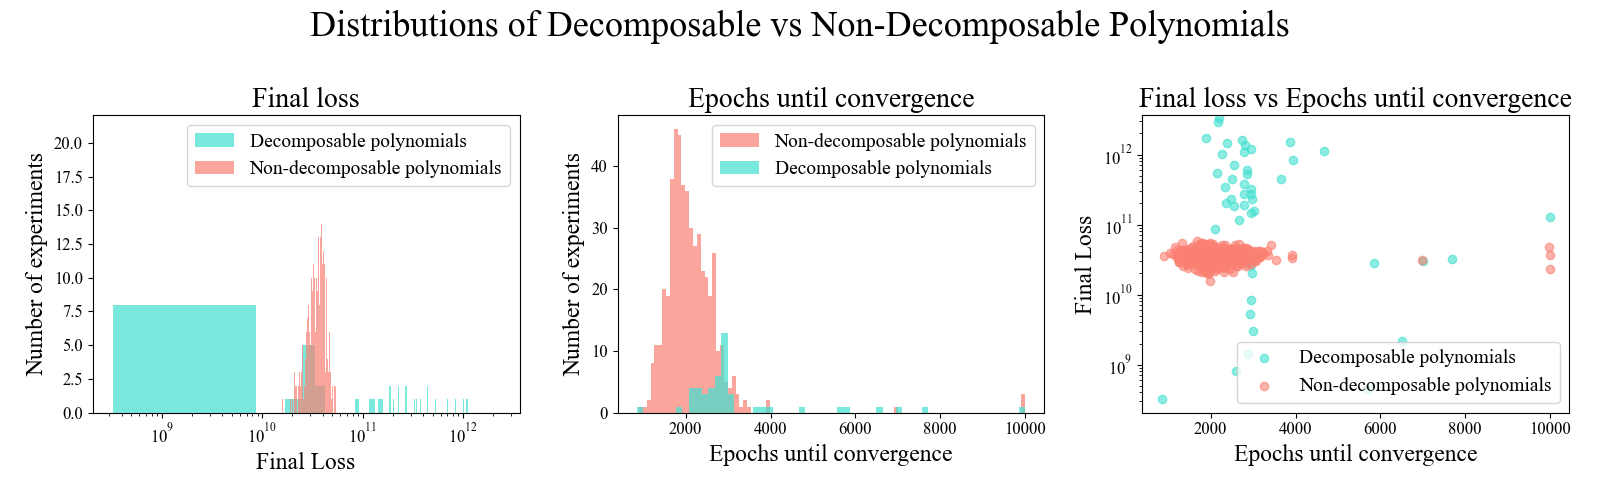
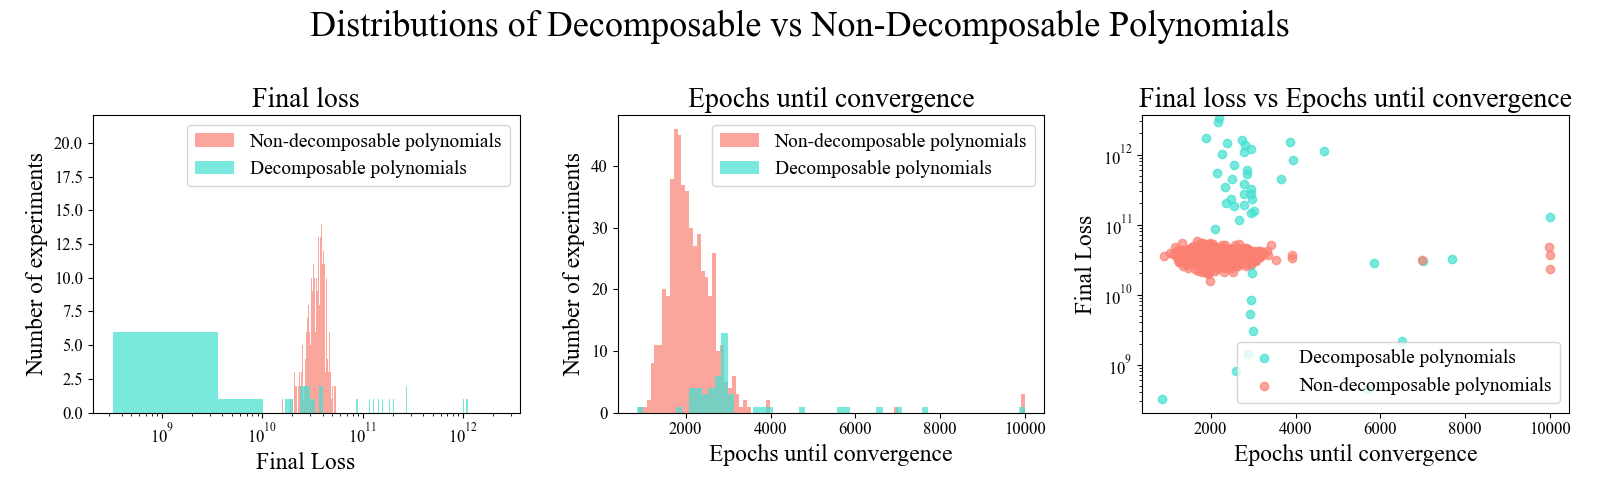
Plots before adjustments

Changed region(s): [[0.0625, 0.6, 0.25, 0.84], [0.125, 0.27, 0.3125, 0.36]]

diff --git a/check_results.py b/check_results.py
@@ -10,6 +10,10 @@ import os
 from matplotlib import rcParams
 import numpy as np
 import pickle
+import pandas as pd
+from sklearn.metrics import accuracy_score
+from sklearn.model_selection import train_test_split
+from xgboost import XGBClassifier
 
 # Constants
 rcParams['font.family'] = 'Times New Roman'
@@ -194,9 +198,135 @@ def analyze_for_300_vary():
     plt.show()
 
 
+def analyze_both_100_and_300():
+    """
+    combinations = [[3, 5], [3, 6], [3, 4], [4, 4], [2, 7]]
+    scales = range(10, 201, 10)
+    repetitions = 3
+    """
+    # Sum the successes
+    successes1, successes2, total_successes = 0, 0, 0
+    scale_successes1, scale_successes2, scale_successes = {}, {}, {}
+    repetitions = 5
+
+    # The working directory
+    WORKING_DIR = join("output_dirs", "100_5_3")
+
+    for thread in os.listdir(join(WORKING_DIR, "train_18")):
+        thread_dir1 = join(WORKING_DIR, "train_17", thread)
+        thread_dir2 = join(WORKING_DIR, "train_18", thread)
+        with open(join(thread_dir1, "polynomials.txt"), "r") as f:
+            loss1 = float(f.readlines()[6].split("Loss = ")[1].strip())
+        with open(join(thread_dir2, "polynomials.txt"), "r") as f:
+            loss2 = float(f.readlines()[6].split("Loss = ")[1].strip())
+
+        # Calculate the scale
+        scale = ((int(thread.split("_")[1]) - 1) // repetitions + 1) * 10
+        if scale not in scale_successes1:
+            scale_successes1[scale] = 0
+        if scale not in scale_successes2:
+            scale_successes2[scale] = 0
+        if scale not in scale_successes:
+            scale_successes[scale] = 0
+
+        # Check if the model succeeded
+        if loss1 < 1e-5:
+            successes1 += 1
+            scale_successes1[scale] += 1
+        if loss2 < 1e-5:
+            successes2 += 1
+            scale_successes2[scale] += 1
+        if loss1 < 1e-5 or loss2 < 1e-5:
+            total_successes += 1
+            scale_successes[scale] += 1
+
+    success_100 = scale_successes1
+    successes_100 = successes1
+
+    combinations = [[3, 5], [3, 6], [3, 4], [4, 4], [2, 7]]
+    WORKING_DIR = join("output_dirs", "300_vary")
+
+    success_dicts = []
+    success_1_counts = []
+    for i in range(len(combinations)):
+        # Sum the successes
+        successes1, successes2, total_successes = 0, 0, 0
+        scale_successes1, scale_successes2, scale_successes = {}, {}, {}
+        repetitions = 3
+        for thread in os.listdir(join(WORKING_DIR, "train_18")):
+            if int(thread.split("_")[1]) > 60 * (i + 1) or int(thread.split("_")[1]) <= 60 * i:
+                continue
+            thread_dir1 = join(WORKING_DIR, "train_17", thread)
+            thread_dir2 = join(WORKING_DIR, "train_18", thread)
+            with open(join(thread_dir1, "polynomials.txt"), "r") as f:
+                loss1 = float(f.readlines()[6].split("Loss = ")[1].strip())
+            with open(join(thread_dir2, "polynomials.txt"), "r") as f:
+                loss2 = float(f.readlines()[6].split("Loss = ")[1].strip())
+
+            # Calculate the scale
+            scale = ((int(thread.split("_")[1]) - 60 * i - 1) // repetitions + 1) * 10
+            if scale not in scale_successes1:
+                scale_successes1[scale] = 0
+            if scale not in scale_successes2:
+                scale_successes2[scale] = 0
+            if scale not in scale_successes:
+                scale_successes[scale] = 0
+
+            # Check if the model succeeded
+            if loss1 < 1e-5:
+                successes1 += 1
+                scale_successes1[scale] += 1
+            if loss2 < 1e-5:
+                successes2 += 1
+                scale_successes2[scale] += 1
+            if loss1 < 1e-5 or loss2 < 1e-5:
+                total_successes += 1
+                scale_successes[scale] += 1
+
+        success_dicts.append(scale_successes1)
+        success_1_counts.append(successes1)
+
+    fig, (ax1, ax2) = plt.subplots(1, 2, figsize=(22, 5), gridspec_kw={'width_ratios': [1, 2]})
+
+    width, space = 2.3, 2.3
+
+    ax1.set_title(f"Success rate over Dataset 100_5_3", fontsize=20)
+    xs = np.array(sorted(list(success_100.keys())))
+    ys = np.array([success_100[x] for x in xs])
+    ax1.bar(xs, ys, color="royalblue", edgecolor="black", width=2 * width,
+            label=f"$(deg\_h, deg\_g) = (3, 5)$ ({successes_100} / 100)")
+    ax1.set_xticks(list(success_100.keys()))
+    ax1.set_xticklabels(list(success_100.keys()), rotation=45)
+    ax1.set_yticks(range(5 + 1))
+    ax1.set_xlabel("Coefficients Scale", fontsize=15)
+    ax1.set_ylabel("Success Rate", fontsize=15)
+    ax1.legend()
+
+    ax2.set_title(f"Success rate over Dataset 300_vary", fontsize=20)
+    colors = ["violet", "dodgerblue", "hotpink", "turquoise", "salmon"]
+    labels = [f"$(deg\_h, deg\_g) = ({combinations[i][0]}, {combinations[i][1]})$ ({success_1_counts[i]}/60)" for i in
+              range(len(combinations))]
+    for i, dct in enumerate(success_dicts):
+        xs = np.array(sorted(list(dct.keys())))
+        ys = np.array([dct[x] for x in xs])
+        ax2.bar(1.5 * xs + (i - 2) * space, ys, width=width, color=colors[i], label=labels[i], edgecolor="black")
+
+    ax2.set_xticks(1.5 * xs)
+    ax2.set_xticklabels(sorted(list(success_100.keys())), rotation=45)
+    ax2.set_yticks(range(3 + 1))
+    ax2.set_xlabel("Coefficients Scale", fontsize=15)
+    ax2.legend()
+
+    plt.suptitle("Successes rate per scale over Datasets 100_5_3 and 300_vary", fontsize=25)
+
+    plt.tight_layout()
+    plt.savefig(join("plots", "default_hp_results", f"successes_per_scale_100_and_300.png"))
+    plt.show()
+
+
 def analyze_ablation():
-    plt.subplots(3, 2, figsize=(13, 17))
-    plt.suptitle("Ablation study results", fontsize=40, y=0.99)
+    plt.subplots(2, 3, figsize=(20, 10))
+    plt.suptitle("Ablation study", fontsize=40, y=0.99)
     # Sum the successes
     successes1, successes2, successes3, successes4 = 0, 0, 0, 0
     scale_successes1, scale_successes2, scale_successes3, scale_successes4 = {}, {}, {}, {}
@@ -244,8 +374,8 @@ def analyze_ablation():
             successes4 += 1
             scale_successes4[scale] += 1
 
-    plt.subplot(3, 2, 1)
-    plt.title(f"Ablation success per scale - 100", fontsize=27)
+    plt.subplot(2, 3, 1)
+    plt.title(f"Success per scale - 100", fontsize=27)
     xs = np.array(list(scale_successes1.keys()))
     ys1, ys2, ys3, ys4 = (list(scale_successes1.values()), list(scale_successes2.values()),
                           list(scale_successes3.values()), list(scale_successes4.values()))
@@ -315,8 +445,8 @@ def analyze_ablation():
                 successes4 += 1
                 scale_successes4[scale] += 1
 
-        plt.subplot(3, 2, i + 2)
-        plt.title(f"Ablation successes per scale for {combinations[i][1]}_{combinations[i][0]}", fontsize=27)
+        plt.subplot(2, 3, i + 2)
+        plt.title(f"Successes per scale for {combinations[i][1]}_{combinations[i][0]}", fontsize=27)
         xs = np.array(list(scale_successes1.keys()))
         ys1, ys2, ys3, ys4 = (list(scale_successes1.values()), list(scale_successes2.values()),
                               list(scale_successes3.values()), list(scale_successes4.values()))
@@ -338,8 +468,7 @@ def analyze_ablation():
         plt.legend()
 
     plt.tight_layout(pad=1.3)
-    plt.savefig(
-        join("plots", "ablation", f"ablation_study.png"))
+    plt.savefig(join("plots", "ablation", f"ablation_study.png"))
     plt.show()
 
 
@@ -579,10 +708,11 @@ def plot_loss_distribution_of_fails():
     dec_epochs, non_dec_epochs = epochs[decomposable + success == 1], epochs[decomposable == 0]
 
     fig, axs = plt.subplots(1, 3, figsize=(16, 5))
+    alpha = 0.7
     plt.subplot(1, 3, 1)
     plt.title(f"Final loss", fontsize=20)
-    plt.hist(dec_losses, bins=400, color="turquoise", label=f"Decomposable polynomials", alpha=0.7)
-    plt.hist(non_dec_losses, bins=100, color="salmon", label=f"Non-decomposable polynomials", alpha=0.7)
+    plt.hist(non_dec_losses, bins=100, color="salmon", label=f"Non-decomposable polynomials", alpha=alpha)
+    plt.hist(dec_losses, bins=1000, color="turquoise", label=f"Decomposable polynomials", alpha=alpha)
     plt.xlabel("Final Loss", fontsize=17)
     plt.xscale("log")
     plt.xlim(np.min(losses) * 0.9, np.max(losses) * 1.1)
@@ -594,8 +724,8 @@ def plot_loss_distribution_of_fails():
 
     plt.subplot(1, 3, 2)
     plt.title(f"Epochs until convergence", fontsize=20)
-    plt.hist(non_dec_epochs, bins=100, color="salmon", label=f"Non-decomposable polynomials", alpha=0.7)
-    plt.hist(dec_epochs, bins=60, color="turquoise", label=f"Decomposable polynomials", alpha=0.7)
+    plt.hist(non_dec_epochs, bins=100, color="salmon", label=f"Non-decomposable polynomials", alpha=alpha)
+    plt.hist(dec_epochs, bins=60, color="turquoise", label=f"Decomposable polynomials", alpha=alpha)
     plt.xlabel("Epochs until convergence", fontsize=17)
     plt.ylabel("Number of experiments", fontsize=17)
     plt.xticks(fontsize=12)
@@ -607,8 +737,8 @@ def plot_loss_distribution_of_fails():
     # Plot a 2d plot of final loss vs epochs until convergence, where decomposable and non-decomposable are in different colors
     # Plot with log scale on y axis
     plt.title(f"Final loss vs Epochs until convergence", fontsize=20)
-    plt.scatter(dec_epochs, dec_losses, color="turquoise", label=f"Decomposable polynomials", alpha=0.6)
-    plt.scatter(non_dec_epochs, non_dec_losses, color="salmon", label=f"Non-decomposable polynomials", alpha=0.6)
+    plt.scatter(dec_epochs, dec_losses, color="turquoise", label=f"Decomposable polynomials", alpha=alpha)
+    plt.scatter(non_dec_epochs, non_dec_losses, color="salmon", label=f"Non-decomposable polynomials", alpha=alpha)
     plt.yscale("log")
     plt.ylim(np.min(losses) * 0.9, np.max(losses) * 1.1)
     plt.xlabel("Epochs until convergence", fontsize=17)
@@ -626,36 +756,106 @@ def plot_loss_distribution_of_fails():
 
 
 def put_losses_in_figure():
-    plt.subplots(3, 3, figsize=(20, 20))
+    plt.subplots(3, 3, figsize=(13, 10))
     interesting_runs = [1, 2, 4, 3, 22, 30, 524, 530, 540]
     loss_list = []
     all_losses = []
-    for i, run in enumerate(interesting_runs, start=1):
-        loss_path = f"output_best_hp/dataset_hybrid_1000_deg15_sample_for_plot/train_17/thread_{i}/losses.pkl"
+    for run in interesting_runs:
+        loss_path = f"output_best_hp/dataset_hybrid_1000_deg15_sample_for_plot/train_17/thread_{run}/losses.pkl"
         with open(loss_path, "rb") as f:
             losses = pickle.load(f)
+
         loss_list.append(losses)
         all_losses += losses
 
-    total_min, total_max = np.min(all_losses), np.max(all_losses)
+    total_min, total_max = np.min(all_losses) / 10, np.max(all_losses)
 
     for i in range(1, 10):
         losses = loss_list[i - 1]
+        if i < 4:
+            losses.append(0)
         plt.subplot(3, 3, i)
         plt.plot(range(1, len(losses) + 1), losses, color="red")
-        plt.title(f"Run {run}", fontsize=20)
+        plt.title(f"Run {interesting_runs[i - 1]}", fontsize=18)
         if i > 6:
             plt.xlabel("Epochs", fontsize=15)
         if i % 3 == 1:
-            plt.ylabel("Loss", fontsize=15)
+            plt.ylabel(f"Class {i // 3 + 1}\nLoss", fontsize=15)
         plt.yscale("log")
         plt.ylim(total_min * 0.9, total_max * 1.1)
 
-    plt.suptitle("Loss curves for decomposable vs Non-decomposable experiments", fontsize=30, y=0.95)
+    plt.suptitle(
+        "Loss curves of decomposable polynomials our method decomposed successfully (class 1)\ndidn't manage to decompose (class 2) and non-decomposable polynomials (class 3)",
+        fontsize=25)
     plt.tight_layout(pad=2.0)
     plt.savefig(join("plots", "rq1_plots", "loss_curves_examples.png"))
     plt.show()
 
 
+def classify_decomposable():
+    """
+    Find the mean epoch for convergence.
+    """
+    WORKING_DIR = join("output_best_hp", "dataset_hybrid_1000_deg15", "train_17")
+    epochs, success, decomposable, losses = [], [], [], []
+
+    for i in range(1, 1001):
+        thread_dir = join(WORKING_DIR, "thread_" + str(i))
+        with open(join(thread_dir, "polynomials.txt"), "r") as f:
+            lines = f.readlines()
+            loss = float(lines[6].split("Loss = ")[1].strip())
+            losses.append(loss)
+            epoch = int(lines[6].split("Epoch")[1].split(":")[0].strip())
+            if loss < 1e-5:
+                success.append(1)
+            else:
+                success.append(0)
+            epochs.append(epoch)
+            if i <= 500:
+                decomposable.append(1)
+            else:
+                decomposable.append(0)
+
+    epochs = np.array(epochs)
+    success = np.array(success)
+    decomposable = np.array(decomposable)
+    losses = np.array(losses)
+
+    dec_losses, non_dec_losses = losses[decomposable + success == 1], losses[decomposable == 0]
+    dec_epochs, non_dec_epochs = epochs[decomposable + success == 1], epochs[decomposable == 0]
+
+    # Built a df to classify decomposable vs non-decomposable based on final loss and epochs until convergence
+    data = {
+        "final_loss": np.concatenate([dec_losses, non_dec_losses]),
+        "epochs": np.concatenate([dec_epochs, non_dec_epochs]),
+        "label": np.concatenate([np.ones(len(dec_losses)), np.zeros(len(non_dec_losses))])
+    }
+    df = pd.DataFrame(data)
+
+    # Split the data into train and test sets
+    X_train, X_test, y_train, y_test = train_test_split(
+        df[["final_loss", "epochs"]], df["label"], test_size=0.2, random_state=42
+    )
+
+    # Print how many decomposable and non-decomposable in train and test sets
+    print("Train set:")
+    print(y_train.value_counts())
+    print("Test set:")
+    print(y_test.value_counts())
+
+    # Train a xgboost model
+    model = XGBClassifier()
+    model.fit(X_train, y_train)
+    # Create a df of test set with predictions
+    y_pred = model.predict(X_test)
+    # Evaluate the model
+    accuracy = accuracy_score(y_test, y_pred)
+    print(f"Accuracy of classifying decomposable vs non-decomposable: {accuracy * 100:.2f}%")
+
+    # Create a df of the test set with predictions
+    df = pd.DataFrame({"labels": y_test, "predictions": y_pred})
+    pass
+
+
 if __name__ == "__main__":
-    put_losses_in_figure()
+    analyze_both_100_and_300()

diff --git a/unused/algorithms/01.py b/unused/algorithms/01.py
@@ -9,13 +9,17 @@ from functions import *
 
 # Define symbolic variables
 x, y = symbols('x y')
+g0, g1, g2, h0, h1, h2 = symbols('g0 g1 g2 h0 h1 h2')
 
 # Define the polynomials
-P = 3*y**2 + (2*y) + 1  # First polynomial: P(y)
-Q = 6*x**2 + (5*x) + 4  # Second polynomial: Q(x)
+P = g2*y**2 + (g1*y) + g0  # First polynomial: P(y)
+Q = h2*x**2 + (h1*x) + h0  # Second polynomial: Q(x)
 
 # Substitute y = Q(x) into P(y)
 result = expand(P.subs(y, Q))
 
-present_result(result)
+# Group the result by powers of x
+result = result.collect(x)
+
+print(result)
 